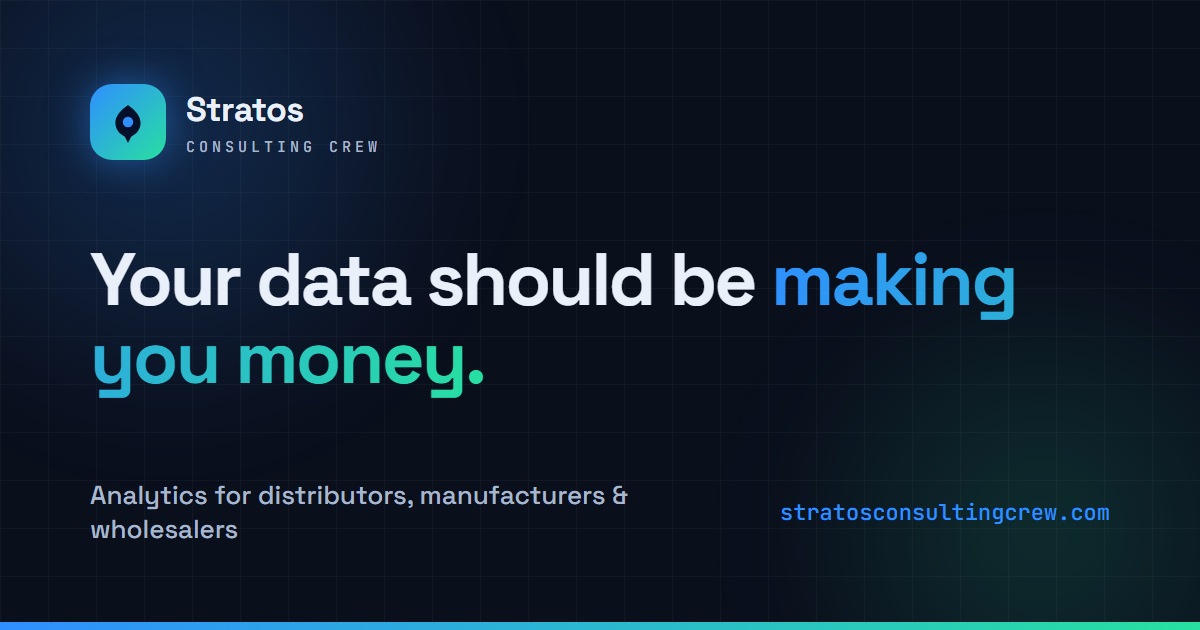
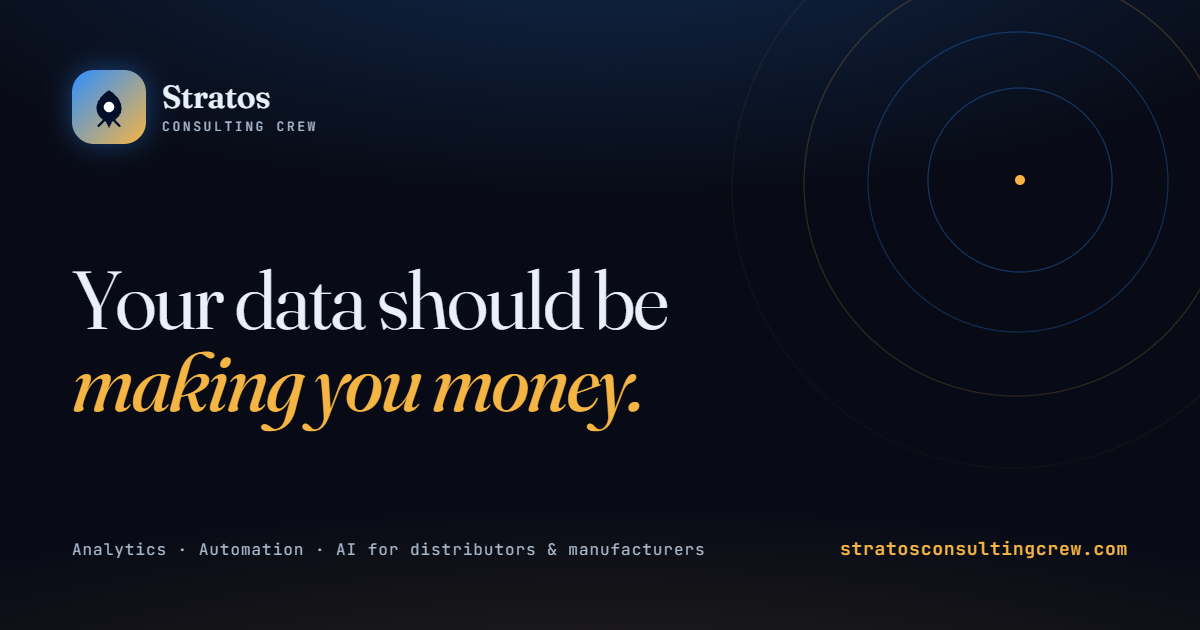
Refresh OG image to new brand; correct analytics docs
- Replace og-image.png (was the old blue/green identity) with an on-brand
  navy + gold + Fraunces card matching the current hero, so shared links
  preview correctly.
- docs/ANALYTICS.md: consent section rewritten for default-on (banner removed);
  add a "GA4 dashboard setup — do this once" checklist (turn off Enhanced
  Measurement history-event page views to stop SPA double-counting; mark the
  key events); fix netlify.toml -> vercel.json; add /services to the 301 list.

diff --git a/docs/ANALYTICS.md b/docs/ANALYTICS.md
@@ -35,10 +35,13 @@ twice. This is asserted by the verification suite.
 
 ### Consent
 
-No tag script is injected and no event is emitted until the visitor presses
-**Allow**. Google Consent Mode v2 defaults are set to `denied` before any tag can
-run. Global Privacy Control is honoured as a silent decline. Consent can be
-withdrawn at any time via **Cookie settings** in the footer.
+Analytics is **on by default** — there is no banner. Google Consent Mode v2
+defaults are set to `denied` in `index.html` before any tag can run, then
+`initAnalytics()` updates analytics storage to `granted` on load and injects the
+tags. The one exception is **Global Privacy Control**: a browser sending GPC is
+treated as a silent, permanent decline — it is never tagged and `track()` stays
+silent for it. (The old allow/deny banner and `CookieConsent` component were
+removed, so the `consent_granted` event below no longer fires.)
 
 ---
 
@@ -70,6 +73,30 @@ withdrawn at any time via **Cookie settings** in the footer.
 `footer_book_call`, `cta_band_book_call`, `contact_pick_a_time`,
 `pricing_discovery_assessment`, `pricing_dashboard_package`,
 `pricing_forecasting_project`, `pricing_monthly_retainer`.
+
+### GA4 dashboard setup — do this once
+
+Two things live in the GA4 web UI, not in code:
+
+**1. Stop double-counted page views.** This site sends `page_view` **manually** on
+every route change (GA4 can't see SPA navigations on its own), and `gtag config`
+runs with `send_page_view: false`. If GA4's Enhanced Measurement *also* generates
+a page view on each SPA navigation, every navigation is counted twice.
+
+> GA4 → **Admin → Data streams →** *(your web stream)* **→ Enhanced measurement**
+> (the ⚙ icon) → open **Page views** → turn **OFF** *"Page changes based on
+> browser history events."* Leave the rest of Enhanced Measurement on.
+
+**2. Mark the Key Events (Conversions).** The ★ rows in the catalog above:
+`cta_click`, `booking_click`, `contact_form_submit`, `email_click`, `phone_click`.
+
+> GA4 → **Admin → Key events → New key event**, type the exact event name, save.
+> (An event also becomes markable from **Admin → Events** once it has been
+> received at least once — so fire it on the live site first, or use **DebugView**
+> with `?gtm_debug=1`.)
+
+`contact_form_submit` is the one that matters most — it only fires on a real 2xx
+from `/api/contact`, so it's a clean lead signal.
 
 ---
 
@@ -133,10 +160,11 @@ homepage's description.
   `?ref=` variants collapse into one indexed page.
 - **robots meta**: indexable pages get `index, follow, max-image-preview:large`.
   The 404 gets `noindex, follow`.
-- **404**: `netlify.toml` serves a prerendered `/404.html` with a real **HTTP 404**.
+- **404**: `vercel.json` serves a prerendered `/404.html` with a real **HTTP 404**.
   Previously the SPA fallback returned **HTTP 200** for every unknown URL, so
   typo'd and stale links were indexable soft-404s.
-- **Legacy URLs**: `/dashboards`, `/problems`, `/problems/*` are **301**s to
-  `/solutions`, server-side, so link equity transfers.
+- **Legacy URLs**: `/services`, `/dashboards`, `/problems`, `/problems/*` are
+  **301**s to `/solutions`, server-side (`vercel.json`), so link equity transfers.
+  (`/services` merged into the problem-led Solutions page.)
 - **sitemap.xml**: generated at build (`scripts/generate-sitemap.mjs`). Add a route
   there when you add a page.
